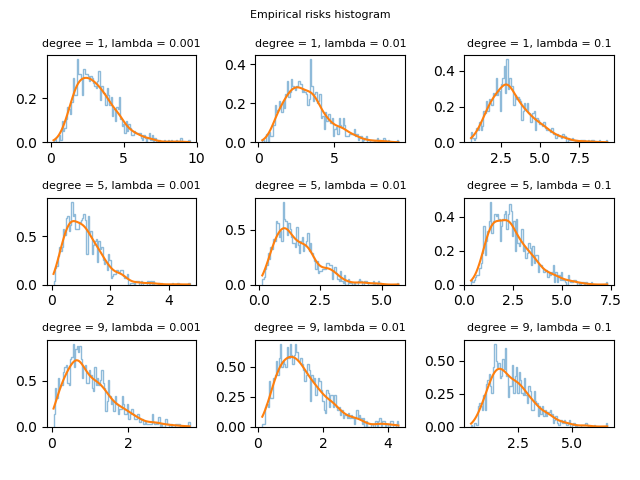
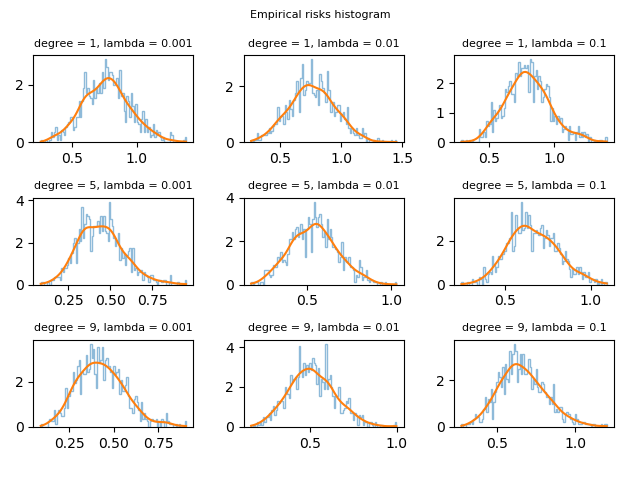
corrected pa6 empirical risk and obtained fresh histogram

diff --git a/pa6.py b/pa6.py
@@ -16,10 +16,13 @@ def getWeights(X,y,ridge) :
     return np.matmul(np.matmul(np.linalg.inv(ridge*np.eye(X.shape[1]) + np.matmul(np.transpose(X),X)),np.transpose(X)),y)
 
 def getEmpiricalRisk(y_train, y_pred, w, lamda):
+    n = y_train.shape[0]
     diff = y_train - y_pred
     ridge = lamda * sum(w*w)
     sqd = np.squeeze(np.array([x*x for x in diff]))
-    return (sum(sqd) + ridge)
+    error = sum(sqd) + ridge
+    emp_risk = np.sqrt((2.0*error)/n)
+    return emp_risk
 
 degrees = [1, 5, 9]
 lambdas = [0.001, 0.01, 0.1]
